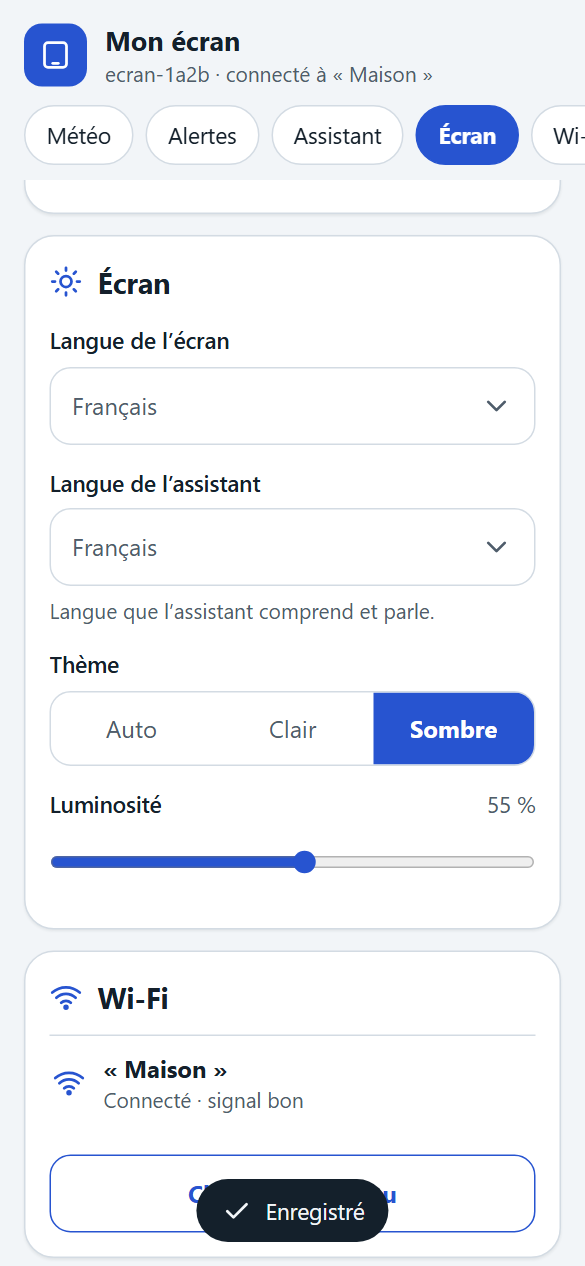
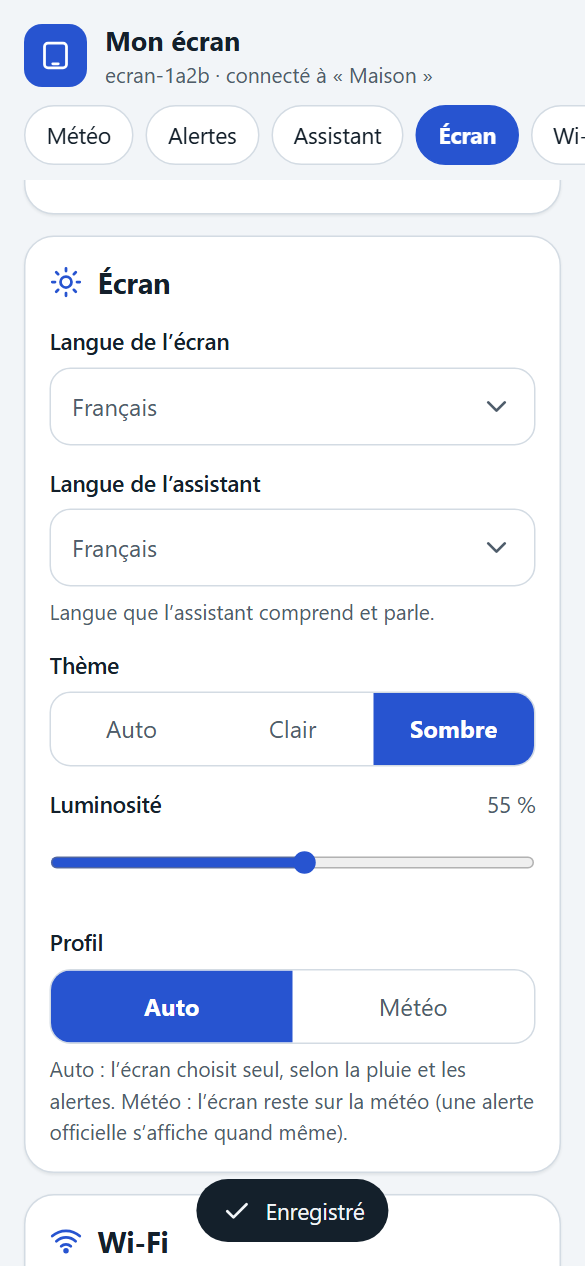
feat(web): le réglage « Profil » sur la page de l'appareil, la doc de l'API et le faux appareil
Une rangée de boutons « Auto / Météo » dans la carte « Écran », dont la liste vient de l'appareil (`profils`) ; le faux serveur
du banc et le parcours navigateur (217 vérifications, dont 4 pour le profil) suivent. Le contrôle « aucun texte français visible »
compare maintenant des mots entiers : « Profil » (fr) n'est plus vu dans « Profile » (en) ni « Profilo » (it).

Carte: aucune
Teste-sur: non testé sur carte

diff --git a/web/app/app.js b/web/app/app.js
@@ -575,6 +575,13 @@ function carteEcran() {
       seg.querySelectorAll('button').forEach((b) => b.setAttribute('aria-checked', String(b === seg.querySelector(`[data-t="${th}"]`))));
       enregistrer({ theme: th });
     }, 'data-t': th })));
+  /* Le profil de l'accueil (ADR-0023) : Auto, ou un profil épinglé. La liste vient de l'appareil (seulement ce qu'il sait dessiner). */
+  const PROFILS = ['auto', 'meteo'];
+  const segProfil = h('div', { class: 'seg', id: 'profil', role: 'radiogroup', 'aria-label': t('ecran.profil'), 'aria-describedby': 'profil-aide' }, (d.profils || PROFILS).map((pr) =>
+    h('button', { type: 'button', role: 'radio', 'aria-checked': String(pr === d.profil), text: t('profil.' + pr), onclick: () => {
+      segProfil.querySelectorAll('button').forEach((b) => b.setAttribute('aria-checked', String(b === segProfil.querySelector(`[data-p="${pr}"]`))));
+      enregistrer({ profil: pr });
+    }, 'data-p': pr })));
   const valeur = h('span', { class: 'valeur', text: pourcent(d.luminosite) });
   const lum = h('input', { id: 'luminosite', type: 'range', min: '5', max: '100', step: '1', value: String(d.luminosite), 'aria-valuetext': pourcent(d.luminosite) });
   lum.addEventListener('input', () => { valeur.textContent = pourcent(lum.value); lum.setAttribute('aria-valuetext', pourcent(lum.value)); });
@@ -584,7 +591,9 @@ function carteEcran() {
     h('div', { class: 'f' }, h('label', { class: 'lab', for: 'langue-assistant', text: t('ecran.langue_assistant') }), h('div', { class: 'champ' }, langueAssistant, ico('chevd')),
       h('p', { class: 'aide', id: 'langue-assistant-aide', text: t('ecran.langue_assistant_aide') })),
     h('div', { class: 'f' }, h('span', { class: 'lab', text: t('ecran.theme') }), seg),
-    h('div', { class: 'f' }, h('label', { class: 'lab', for: 'luminosite' }, t('ecran.luminosite'), valeur), lum));
+    h('div', { class: 'f' }, h('label', { class: 'lab', for: 'luminosite' }, t('ecran.luminosite'), valeur), lum),
+    h('div', { class: 'f' }, h('span', { class: 'lab', text: t('ecran.profil') }), segProfil,
+      h('p', { class: 'aide', id: 'profil-aide', text: t('ecran.profil_aide') })));
 }
 
 /* ---------- Wi-Fi ---------- */

diff --git a/web/tests/parcours.py b/web/tests/parcours.py
@@ -517,7 +517,7 @@ def main():
 
             def t_ecran():
                 if REEL:
-                    depart_affichage.update({k: v for k, v in api(page, "GET", "/api/display")[1].items() if k in ("langue_ecran", "langue_assistant", "theme", "luminosite")})
+                    depart_affichage.update({k: v for k, v in api(page, "GET", "/api/display")[1].items() if k in ("langue_ecran", "langue_assistant", "theme", "luminosite", "profil")})
                 else:
                     ouvrir(page, "Réfléchir")  # referme
                 page.get_by_role("radio", name="Sombre").click()
@@ -528,11 +528,24 @@ def main():
                 expect(page.locator("#toast")).to_contain_text("Enregistré")
                 _, d = api(page, "GET", "/api/display")
                 verifier("luminosité 55 % enregistrée", d["luminosite"] == 55, str(d["luminosite"]))
+                # Le profil de l'accueil (ADR-0023) : « Auto » au départ, seulement les profils que l'appareil dessine, « Météo » l'épingle.
+                verifier("profil de l'accueil : Auto au départ, deux profils offerts", d["profil"] in ("auto", "meteo") and d["profils"] == ["auto", "meteo"], str(d))
+                profil = page.locator("#profil")
+                verifier("profil de l'accueil : la page ne montre que les profils de l'appareil", profil.get_by_role("radio").count() == 2)
+                profil.get_by_role("radio", name="Météo", exact=True).click()
+                expect(page.locator("#toast")).to_contain_text("Enregistré")
+                _, d = api(page, "GET", "/api/display")
+                verifier("profil de l'accueil : Météo enregistré (épinglé) sur l'appareil", d["profil"] == "meteo", d["profil"])
+                expect(profil.get_by_role("radio", name="Météo", exact=True)).to_have_attribute("aria-checked", "true")
+                profil.get_by_role("radio", name="Auto", exact=True).click()
+                expect(page.locator("#toast")).to_contain_text("Enregistré")
+                _, d = api(page, "GET", "/api/display")
+                verifier("profil de l'accueil : Auto rendu (plus rien d'épinglé) sur l'appareil", d["profil"] == "auto", d["profil"])
                 page.locator("#ecran").scroll_into_view_if_needed()
                 page.screenshot(path=str(CAPTURES / "10-ecran.png"))
                 if REEL:  # remettre l'écran de l'appareil comme avant le parcours
-                    api(page, "PUT", "/api/display", {k: depart_affichage[k] for k in ("theme", "luminosite") if k in depart_affichage})
-            etape("Écran : thème et luminosité", t_ecran, page)
+                    api(page, "PUT", "/api/display", {k: depart_affichage[k] for k in ("theme", "luminosite", "profil") if k in depart_affichage})
+            etape("Écran : thème, luminosité et profil de l'accueil", t_ecran, page)
 
             def t_alertes():
                 carte = page.locator("#alertes")
@@ -731,7 +744,8 @@ def main():
                         verifier(f"{code} : aucun identifiant brut (« ville.titre ») affiché", not bruts, str(bruts[:4]))
                         if code != "fr":
                             propres_au_francais = [v for k, v in fr.items() if "{" not in v and len(v) >= 6 and v != cat.get(k)]
-                            restes = sorted({v for v in propres_au_francais if v in texte})
+                            # Mot entier : « Profil » (fr) ne doit pas être vu dans « Profile » (en) ni « Profilo » (it), traduits.
+                            restes = sorted({v for v in propres_au_francais if re.search(r"(?<!\w)" + re.escape(v) + r"(?!\w)", texte)})
                             verifier(f"{code} : aucun texte français visible dans la page", not restes, str(restes[:4]))
                         verifier_attribution(p4, code, code)
                         expect(p4.locator(".hero .temp b")).to_have_text(re.compile(r"-?\d+\s°C"), timeout=20000)
